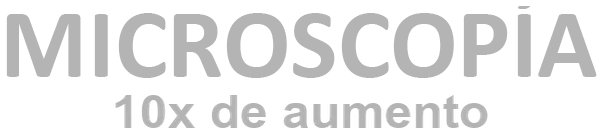
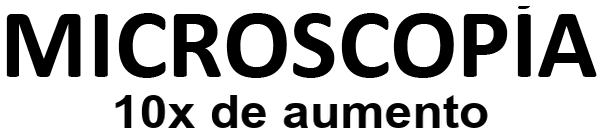
Relicario: el modo con target se habia quedado sin los rotulos (al sacarlos de rx.webp/micro1.webp solo se los volvio a dibujar en el motor sin target). Se agregan tambien en target-engine.js, con la geometria del target. Y el rotulo de microscopia pasa a NEGRO (venia gris claro, se leia mal y no ha

Changed region(s): [[0.0, 0.0896, 1.0, 0.597], [0.1791, 0.6866, 0.806, 0.9552], [0.8358, 0.0299, 0.8955, 0.0597]]

diff --git a/relicario/target-engine.js b/relicario/target-engine.js
@@ -46,6 +46,18 @@ async function start() {
   const rxL = layer(CFG.rx, 0.002, 2);
   const micros = (CFG.reveals || []).map((src, i) => layer(src, 0.003 + i * 0.001, 5 + i));
 
+  // Rótulos ("IMAGEN DE RAYOS X" / "MICROSCOPÍA · 10x"): ya no vienen horneados
+  // en rx.webp / micro1.webp, así que hay que dibujarlos aparte también aquí, o
+  // el modo con target se queda sin ellos. Tamaño y centro propios (fracciones
+  // del marco), por eso no pueden usar `layer()`, que asume el marco entero.
+  const rotulos = (CFG.rotulos || []).map((r, i) => {
+    const mat = new THREE.MeshBasicMaterial({ map: tx(r.src), transparent: true, opacity: 0, depthTest: false, depthWrite: false });
+    const mesh = new THREE.Mesh(new THREE.PlaneGeometry(r.w * OV.width, r.h * OV.height), mat);
+    mesh.position.set(OV.offsetX + (r.x - 0.5) * OV.width, OV.offsetY + (0.5 - r.y) * OV.height, 0.03 + i * 0.001);
+    mesh.renderOrder = 30 + i; anchor.group.add(mesh);
+    return { mesh, mat };
+  });
+
   const hotMeshes = [];
   const hits = (CFG.hotspots || []).map((h, i) => {
     const lx = OV.offsetX + (h.x - 0.5) * OV.width;
@@ -123,6 +135,11 @@ async function start() {
       p.mat.opacity = o; if (o > 0.6) shown++;
     });
     ready = micros.length > 0 && shown >= micros.length;
+
+    // Cada rótulo entra con lo que nombra, como cuando venía horneado.
+    if (rotulos[0]) rotulos[0].mat.opacity = appR * rxAlpha;
+    if (rotulos[1]) rotulos[1].mat.opacity = micros.length ? micros[0].mat.opacity : 0;
+
     hotMeshes.forEach((m) => {
       const pulse = 1 + Math.sin(t * 3) * 0.12;
       m.scale.setScalar(pulse);

diff --git a/relicario/index.html b/relicario/index.html
@@ -89,7 +89,7 @@
   <div id="zoom"><img id="zoom-img" alt="Microscopía ampliada" /></div>
   <div id="error"></div>
 
-  <script src="config.js?v=20"></script>
+  <script src="config.js?v=21"></script>
   <script>
     // Dos modos en la MISMA URL (el QR impreso no cambia): por defecto va
     // el modo sin target (contenido fijo sobre la cámara); con ?target=1
@@ -104,7 +104,7 @@
         if (hide) hide.style.display = conTarget ? "none" : "";   // sin foto de la pieza no hay nada que ocultar
         if (scan) scan.style.display = conTarget ? "flex" : "none";
       });
-      import(conTarget ? "./target-engine.js?v=4" : "./relicario-engine.js?v=19");
+      import(conTarget ? "./target-engine.js?v=5" : "./relicario-engine.js?v=19");
     })();
   </script>
 </body>

diff --git a/relicario/config.js b/relicario/config.js
@@ -1,4 +1,4 @@
-/*  CONFIG DE PIEZA — Relicario, SIN marcador · motor propio (relicario-engine.js)
+/*  CONFIG DE PIEZA — Relicario, SIN marcador · motor propio (relicario-engine.js)
  *  Ya no depende de detectar ningún target (antes RA6, letras, medía débil):
  *
  *   1. Aparece el RELICARIO ORIGINAL (foto a color).
@@ -47,7 +47,7 @@ window.MUSEO_CONFIG = {
   // ajuste automático de pantalla lo compensa solo (mide la caja real).
   rotulos: [
     { src: "assets/rotulo-rx.webp?v=1",     w: 0.492, h: 0.042, x: 0.272, y: -0.016 },
-    { src: "assets/rotulo-micro1.webp?v=1", w: 0.344, h: 0.072, x: 0.760, y: -0.031 }
+    { src: "assets/rotulo-micro1.webp?v=2", w: 0.344, h: 0.072, x: 0.760, y: -0.031 }
   ],
 
   intervaloReveal: 0.9,
